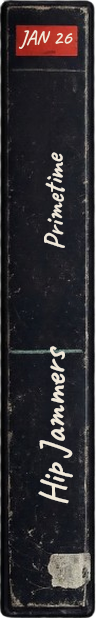
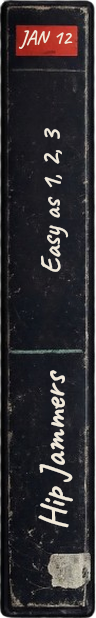
Revert to static peek tab images, update round name
- Reverted to static image approach (text baked into PNG)
- Updated round name from "Primetime" to "Easy as 1, 2, 3"
- Regenerated peek tab images with new text

🤖 Generated with [Claude Code](https://claude.com/claude-code)

Changed region(s): [[0.4062, 0.5534, 0.75, 0.8608], [0.4062, 0.1845, 0.7188, 0.4612], [0.5625, 0.0307, 0.75, 0.0922]]

diff --git a/web/src/pages/ChatPage.tsx b/web/src/pages/ChatPage.tsx
@@ -732,14 +732,8 @@ export default function ChatPage() {
 
   return (
     <div className="chat-page">
-      {/* Peek tab - cassette spine on right edge with dynamic text */}
-      <PeekTab
-        onClick={openPanel}
-        variant="cassette"
-        leagueName={group?.name}
-        roundName={round?.theme}
-        deadline={round?.status === "open" ? round?.submission_deadline : round?.voting_deadline}
-      />
+      {/* Peek tab - cassette spine on right edge */}
+      <PeekTab onClick={openPanel} variant="cassette" />
 
       <div
         className="chat-thread"

diff --git a/web/src/pages/HistoryPage.tsx b/web/src/pages/HistoryPage.tsx
@@ -1156,13 +1156,7 @@ export default function HistoryPage() {
 
   return (
     <div className="history-page">
-      <PeekTab
-        onClick={openPanel}
-        variant="cassette"
-        leagueName={group?.name}
-        roundName={round?.theme}
-        deadline={round?.status === "open" ? round?.submission_deadline : round?.voting_deadline}
-      />
+      <PeekTab onClick={openPanel} variant="cassette" />
       <CardStack
         cards={cardData}
         onCardChange={handleCardChange}
